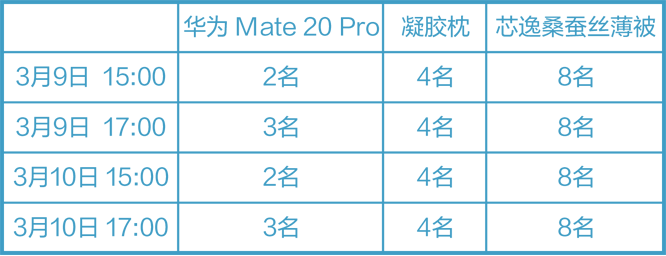
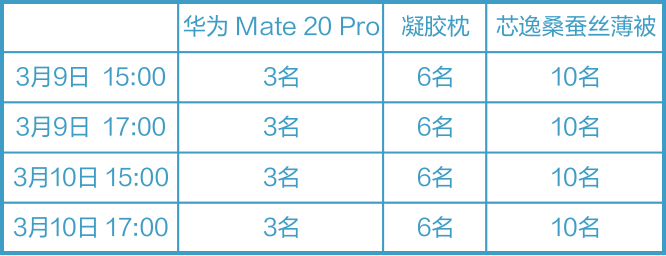
抽奖奖品名额修改

diff --git a/src/components/Award.vue b/src/components/Award.vue
@@ -5,21 +5,21 @@
             <img src="../assets/images/phone.png" alt="">
             <div>
               <h2>华为 Mate 20 Pro</h2>
-              <h1>10名</h1>
+              <h1>12名</h1>
             </div>
         </div>
         <div class="item">
             <img src="../assets/images/pillow.png" alt="">
             <div>
               <h2>凝胶枕</h2>
-              <h1>16名</h1>
+              <h1>24名</h1>
             </div>
         </div>
         <div class="item">
             <img src="../assets/images/quilt.png" alt="">
             <div>
               <h2>芯逸桑蚕丝薄被</h2>
-              <h1>32名</h1>
+              <h1>40名</h1>
             </div>
         </div>
       </div>
